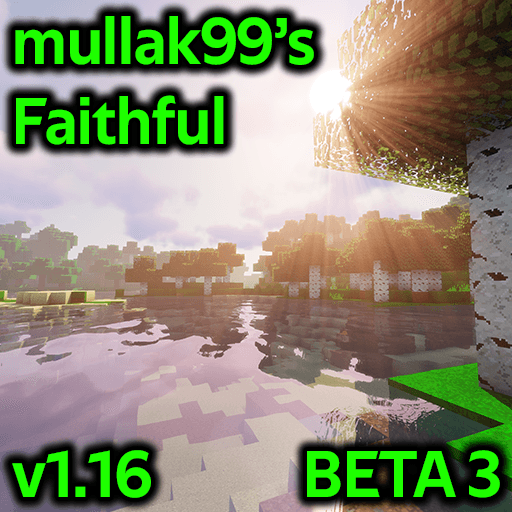
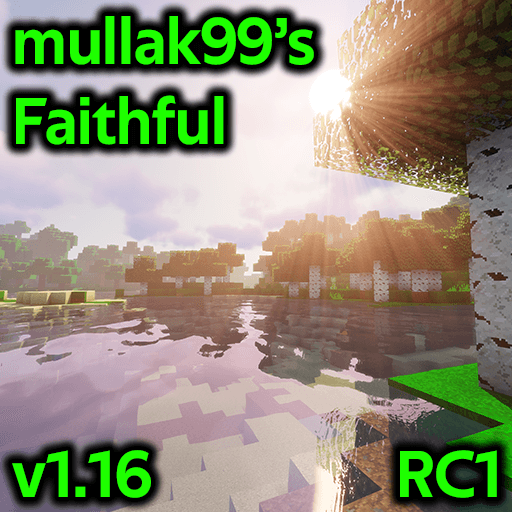
Added Smithing Table GUI
- Added Smithing Table GUI texture

Changed region(s): [[0.5625, 0.8438, 1.0, 1.0]]

diff --git a/README.md b/README.md
@@ -1,6 +1,6 @@
 # mullak99's Faithful 32x
 
-**Current Branch Version:** _v1.16-BETA3_  
+**Current Branch Version:** _v1.16-RC1_  
 
 ## Branch Breakdown
 
